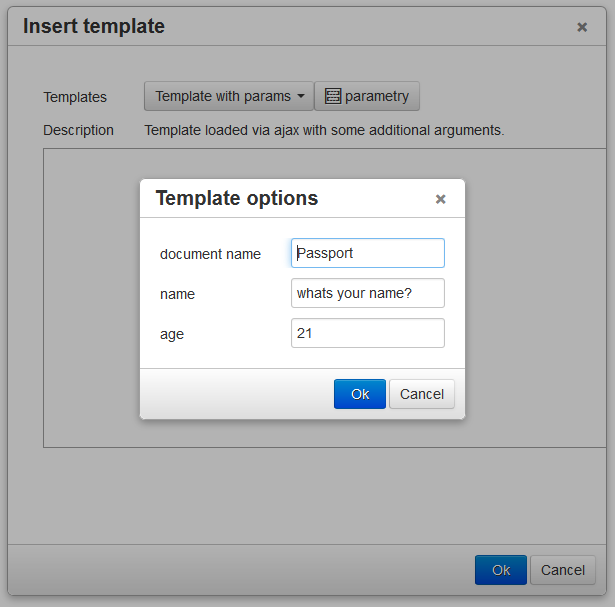
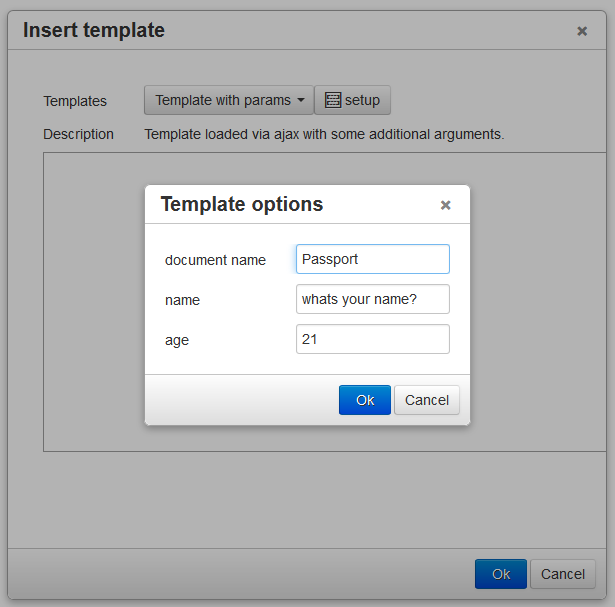
Fix lang

diff --git a/js/tinymce/plugins/template/plugin.min.js b/js/tinymce/plugins/template/plugin.min.js
@@ -1,1 +1,1 @@
-tinymce.PluginManager.add("template",function(e){function t(){var e=new s;e.start()}function a(t,a){function n(e,t){if(e=""+e,e.length<t)for(var a=0;a<t-e.length;a++)e="0"+e;return e}var r="Sun Mon Tue Wed Thu Fri Sat Sun".split(" "),l="Sunday Monday Tuesday Wednesday Thursday Friday Saturday Sunday".split(" "),i="Jan Feb Mar Apr May Jun Jul Aug Sep Oct Nov Dec".split(" "),o="January February March April May June July August September October November December".split(" ");return a=a||new Date,t=t.replace("%D","%m/%d/%Y"),t=t.replace("%r","%I:%M:%S %p"),t=t.replace("%Y",""+a.getFullYear()),t=t.replace("%y",""+a.getYear()),t=t.replace("%m",n(a.getMonth()+1,2)),t=t.replace("%d",n(a.getDate(),2)),t=t.replace("%H",""+n(a.getHours(),2)),t=t.replace("%M",""+n(a.getMinutes(),2)),t=t.replace("%S",""+n(a.getSeconds(),2)),t=t.replace("%I",""+((a.getHours()+11)%12+1)),t=t.replace("%p",""+(a.getHours()<12?"AM":"PM")),t=t.replace("%B",""+e.translate(o[a.getMonth()])),t=t.replace("%b",""+e.translate(i[a.getMonth()])),t=t.replace("%A",""+e.translate(l[a.getDay()])),t=t.replace("%a",""+e.translate(r[a.getDay()])),t=t.replace("%%","%")}function n(t){var a=e.dom,n=e.getParam("template_replace_values");i(a.select("*",t),function(e){i(n,function(t,r){a.hasClass(e,r)&&"function"==typeof n[r]&&n[r](e)})})}function r(t,a){return i(e.getParam(a),function(e,a){"function"!=typeof e&&(t=t.replace(new RegExp("\\{\\$"+a+"\\}","g"),e))}),t}function l(t,l){function o(e,t){return new RegExp("\\b"+t+"\\b","g").test(e.className)}var s,c,p=e.dom,u=e.selection.getContent();l=r(l,"template_replace_values"),s=p.create("div",null,l),c=p.select(".mceTmpl",s),c&&c.length>0&&(s=p.create("div",null),s.appendChild(c[0].cloneNode(!0))),i(p.select("*",s),function(t){o(t,e.getParam("template_cdate_classes","cdate").replace(/\s+/g,"|"))&&(t.innerHTML=a(e.getParam("template_cdate_format",e.getLang("template.cdate_format")))),o(t,e.getParam("template_mdate_classes","mdate").replace(/\s+/g,"|"))&&(t.innerHTML=a(e.getParam("template_mdate_format",e.getLang("template.mdate_format")))),o(t,e.getParam("template_selected_content_classes","selcontent").replace(/\s+/g,"|"))&&(t.innerHTML=u)}),n(s),e.execCommand("mceInsertContent",!1,s.innerHTML),e.addVisual()}var i=tinymce.each,o=(tinymce.extend,function(e,t,a,n,r){var l=this,o=r?!1:!0,s={};return i(r,function(e,t){s[t]=e.value}),l.show=function(e){if(e.setCurrent(l),e.prepareParamsPopup(r),e.setDescription(n),t)if(o){var c=[];i(s,function(e,t){c.push(t+"="+e)}),tinymce.util.XHR.send({url:t+"?"+c.join("&"),success:function(t){e.setTemplate(t)}})}else e.setTemplate("");else e.setTemplate(a)},l.update=function(e){o=!0,s=e},l.isInitialized=function(){return o},{show:l.show,update:l.update,isInitialized:l.isInitialized}}),s=function(){var t=this,a=null,n=null,s=null,c=null,p=null,u="",m=null,d=[],f=[],g=[];return t.start=function(){var a=e.settings.templates;return a?("string"==typeof a?tinymce.util.XHR.send({url:a,success:function(e){t.show(tinymce.util.JSON.parse(e))}}):t.show(a),void 0):(e.windowManager.alert("No templates defined"),void 0)},t.show=function(n){a=e.windowManager.open(t.build(n)),c.fire("select")},t.build=function(a){return i(a,function(e){g.push({selected:!g.length,text:e.title,value:new o(e.title,e.url,e.content,e.description,e.options)})}),c=tinymce.ui.Factory.create({type:"listbox",name:"template",values:g,onselect:t.onSelectTemplate}),s=tinymce.ui.Factory.create({type:"button",icon:"template",text:"parametry",onclick:t.showParamsSetup}),p=tinymce.ui.Factory.create({type:"label",name:"description",label:"Description",text:" "}),{title:"Insert template",layout:"flex",direction:"column",align:"stretch",padding:15,spacing:10,body:[{type:"container",label:"Templates",items:[c,s]},{type:"container",label:"Description",items:[p]},{type:"iframe",minWidth:800,minHeight:300,border:1}],onsubmit:function(){l(!1,u)},width:e.getParam("template_popup_width",600),height:e.getParam("template_popup_height",500)}},t.setDescription=function(e){p.text(e)},t.setTemplate=function(t){if(u=t,-1==t.indexOf("<html>")){var n="";i(e.contentCSS,function(t){n+='<link type="text/css" rel="stylesheet" href="'+e.documentBaseURI.toAbsolute(t)+'">'}),t="<!DOCTYPE html><html><head>"+n+"</head><body>"+t+"</body></html>"}t=r(t,"template_preview_replace_values");var l=a.find("iframe")[0].getEl().contentWindow.document;l.open(),l.write(t),l.close()},t.prepareParamsPopup=function(a){d=[],f={},"undefined"==typeof a?s.hide():s.show(),i(a,function(e,t){var a=tinymce.ui.Factory.create(e);f[t]=a,d.push({type:"container",label:e.label,items:[a]})}),n=e.windowManager.open({title:"Template options",body:d,onsubmit:t.onParamsUpdate,onclose:t.onParamsClose}),n.hide()},t.setCurrent=function(e){m=e},t.onSelectTemplate=function(e){null!=n&&n.hide();var a=e.control.value();a.show(t),a.isInitialized()||t.showParamsSetup()},t.showParamsSetup=function(){n.show()},t.onParamsUpdate=function(){var e={};i(f,function(t,a){e[a]=t.value()}),m.update(e)},t.onParamsClose=function(){m.show(t)},{start:t.start,prepareParamsPopup:t.prepareParamsPopup,setDescription:t.setDescription,setTemplate:t.setTemplate,setCurrent:t.setCurrent}};e.addCommand("mceInsertTemplate",l),e.addButton("template",{title:"Insert template",onclick:t}),e.addMenuItem("template",{text:"Insert template",onclick:t,context:"insert"}),e.on("PreProcess",function(t){var r=e.dom;i(r.select("div",t.node),function(t){r.hasClass(t,"mceTmpl")&&(i(r.select("*",t),function(t){r.hasClass(t,e.getParam("template_mdate_classes","mdate").replace(/\s+/g,"|"))&&(t.innerHTML=a(e.getParam("template_mdate_format",e.getLang("template.mdate_format"))))}),n(t))})})});
+tinymce.PluginManager.add("template",function(e){function t(){var e=new s;e.start()}function a(t,a){function n(e,t){if(e=""+e,e.length<t)for(var a=0;a<t-e.length;a++)e="0"+e;return e}var r="Sun Mon Tue Wed Thu Fri Sat Sun".split(" "),l="Sunday Monday Tuesday Wednesday Thursday Friday Saturday Sunday".split(" "),i="Jan Feb Mar Apr May Jun Jul Aug Sep Oct Nov Dec".split(" "),o="January February March April May June July August September October November December".split(" ");return a=a||new Date,t=t.replace("%D","%m/%d/%Y"),t=t.replace("%r","%I:%M:%S %p"),t=t.replace("%Y",""+a.getFullYear()),t=t.replace("%y",""+a.getYear()),t=t.replace("%m",n(a.getMonth()+1,2)),t=t.replace("%d",n(a.getDate(),2)),t=t.replace("%H",""+n(a.getHours(),2)),t=t.replace("%M",""+n(a.getMinutes(),2)),t=t.replace("%S",""+n(a.getSeconds(),2)),t=t.replace("%I",""+((a.getHours()+11)%12+1)),t=t.replace("%p",""+(a.getHours()<12?"AM":"PM")),t=t.replace("%B",""+e.translate(o[a.getMonth()])),t=t.replace("%b",""+e.translate(i[a.getMonth()])),t=t.replace("%A",""+e.translate(l[a.getDay()])),t=t.replace("%a",""+e.translate(r[a.getDay()])),t=t.replace("%%","%")}function n(t){var a=e.dom,n=e.getParam("template_replace_values");i(a.select("*",t),function(e){i(n,function(t,r){a.hasClass(e,r)&&"function"==typeof n[r]&&n[r](e)})})}function r(t,a){return i(e.getParam(a),function(e,a){"function"!=typeof e&&(t=t.replace(new RegExp("\\{\\$"+a+"\\}","g"),e))}),t}function l(t,l){function o(e,t){return new RegExp("\\b"+t+"\\b","g").test(e.className)}var s,c,p=e.dom,u=e.selection.getContent();l=r(l,"template_replace_values"),s=p.create("div",null,l),c=p.select(".mceTmpl",s),c&&c.length>0&&(s=p.create("div",null),s.appendChild(c[0].cloneNode(!0))),i(p.select("*",s),function(t){o(t,e.getParam("template_cdate_classes","cdate").replace(/\s+/g,"|"))&&(t.innerHTML=a(e.getParam("template_cdate_format",e.getLang("template.cdate_format")))),o(t,e.getParam("template_mdate_classes","mdate").replace(/\s+/g,"|"))&&(t.innerHTML=a(e.getParam("template_mdate_format",e.getLang("template.mdate_format")))),o(t,e.getParam("template_selected_content_classes","selcontent").replace(/\s+/g,"|"))&&(t.innerHTML=u)}),n(s),e.execCommand("mceInsertContent",!1,s.innerHTML),e.addVisual()}var i=tinymce.each,o=(tinymce.extend,function(e,t,a,n,r){var l=this,o=r?!1:!0,s={};return i(r,function(e,t){s[t]=e.value}),l.show=function(e){if(e.setCurrent(l),e.prepareParamsPopup(r),e.setDescription(n),t)if(o){var c=[];i(s,function(e,t){c.push(t+"="+e)}),tinymce.util.XHR.send({url:t+"?"+c.join("&"),success:function(t){e.setTemplate(t)}})}else e.setTemplate("");else e.setTemplate(a)},l.update=function(e){o=!0,s=e},l.isInitialized=function(){return o},{show:l.show,update:l.update,isInitialized:l.isInitialized}}),s=function(){var t=this,a=null,n=null,s=null,c=null,p=null,u="",m=null,d=[],f=[],g=[];return t.start=function(){var a=e.settings.templates;return a?("string"==typeof a?tinymce.util.XHR.send({url:a,success:function(e){t.show(tinymce.util.JSON.parse(e))}}):t.show(a),void 0):(e.windowManager.alert("No templates defined"),void 0)},t.show=function(n){a=e.windowManager.open(t.build(n)),c.fire("select")},t.build=function(a){return i(a,function(e){g.push({selected:!g.length,text:e.title,value:new o(e.title,e.url,e.content,e.description,e.options)})}),c=tinymce.ui.Factory.create({type:"listbox",name:"template",values:g,onselect:t.onSelectTemplate}),s=tinymce.ui.Factory.create({type:"button",icon:"template",text:"setup",onclick:t.showParamsSetup}),p=tinymce.ui.Factory.create({type:"label",name:"description",label:"Description",text:" "}),{title:"Insert template",layout:"flex",direction:"column",align:"stretch",padding:15,spacing:10,body:[{type:"container",label:"Templates",items:[c,s]},{type:"container",label:"Description",items:[p]},{type:"iframe",minWidth:800,minHeight:300,border:1}],onsubmit:function(){l(!1,u)},width:e.getParam("template_popup_width",600),height:e.getParam("template_popup_height",500)}},t.setDescription=function(e){p.text(e)},t.setTemplate=function(t){if(u=t,-1==t.indexOf("<html>")){var n="";i(e.contentCSS,function(t){n+='<link type="text/css" rel="stylesheet" href="'+e.documentBaseURI.toAbsolute(t)+'">'}),t="<!DOCTYPE html><html><head>"+n+"</head><body>"+t+"</body></html>"}t=r(t,"template_preview_replace_values");var l=a.find("iframe")[0].getEl().contentWindow.document;l.open(),l.write(t),l.close()},t.prepareParamsPopup=function(a){d=[],f={},"undefined"==typeof a?s.hide():s.show(),i(a,function(e,t){var a=tinymce.ui.Factory.create(e);f[t]=a,d.push({type:"container",label:e.label,items:[a]})}),n=e.windowManager.open({title:"Template options",body:d,onsubmit:t.onParamsUpdate,onclose:t.onParamsClose}),n.hide()},t.setCurrent=function(e){m=e},t.onSelectTemplate=function(e){null!=n&&n.hide();var a=e.control.value();a.show(t),a.isInitialized()||t.showParamsSetup()},t.showParamsSetup=function(){n.show()},t.onParamsUpdate=function(){var e={};i(f,function(t,a){e[a]=t.value()}),m.update(e)},t.onParamsClose=function(){m.show(t)},{start:t.start,prepareParamsPopup:t.prepareParamsPopup,setDescription:t.setDescription,setTemplate:t.setTemplate,setCurrent:t.setCurrent}};e.addCommand("mceInsertTemplate",l),e.addButton("template",{title:"Insert template",onclick:t}),e.addMenuItem("template",{text:"Insert template",onclick:t,context:"insert"}),e.on("PreProcess",function(t){var r=e.dom;i(r.select("div",t.node),function(t){r.hasClass(t,"mceTmpl")&&(i(r.select("*",t),function(t){r.hasClass(t,e.getParam("template_mdate_classes","mdate").replace(/\s+/g,"|"))&&(t.innerHTML=a(e.getParam("template_mdate_format",e.getLang("template.mdate_format"))))}),n(t))})})});

diff --git a/js/tinymce/plugins/template/plugin.js b/js/tinymce/plugins/template/plugin.js
@@ -156,7 +156,7 @@ tinymce.PluginManager.add('template', function(editor) {
 			templateParamsPopupControl = tinymce.ui.Factory.create({
 				type: 'button',
 				icon: 'template',
-				text: 'parametry',
+				text: 'setup',
 				onclick: self.showParamsSetup
 			});
 			
